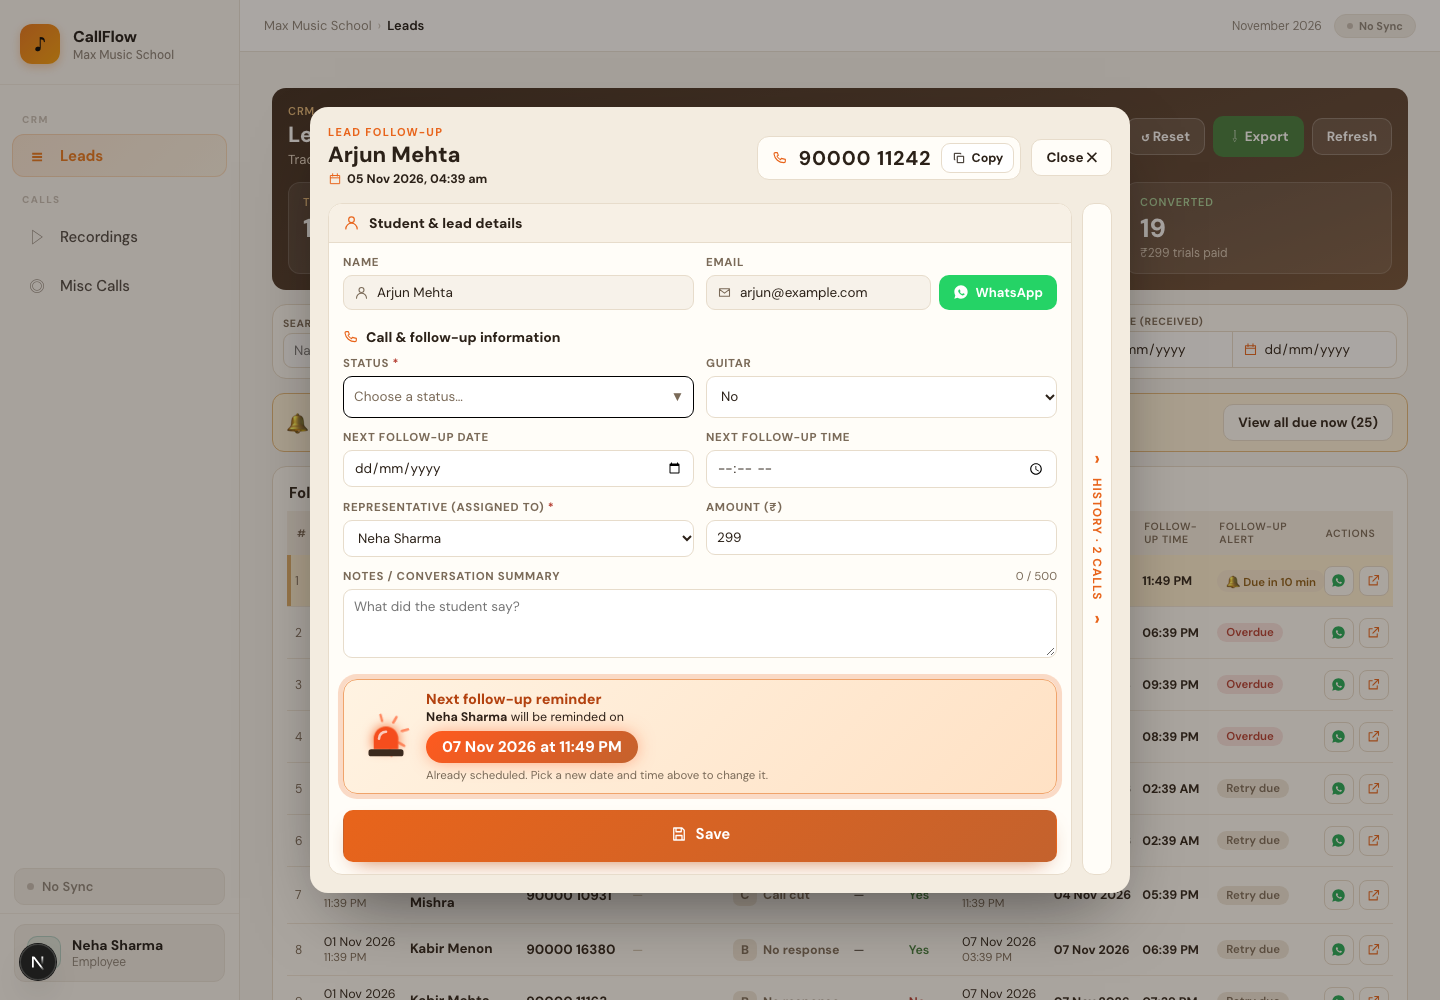
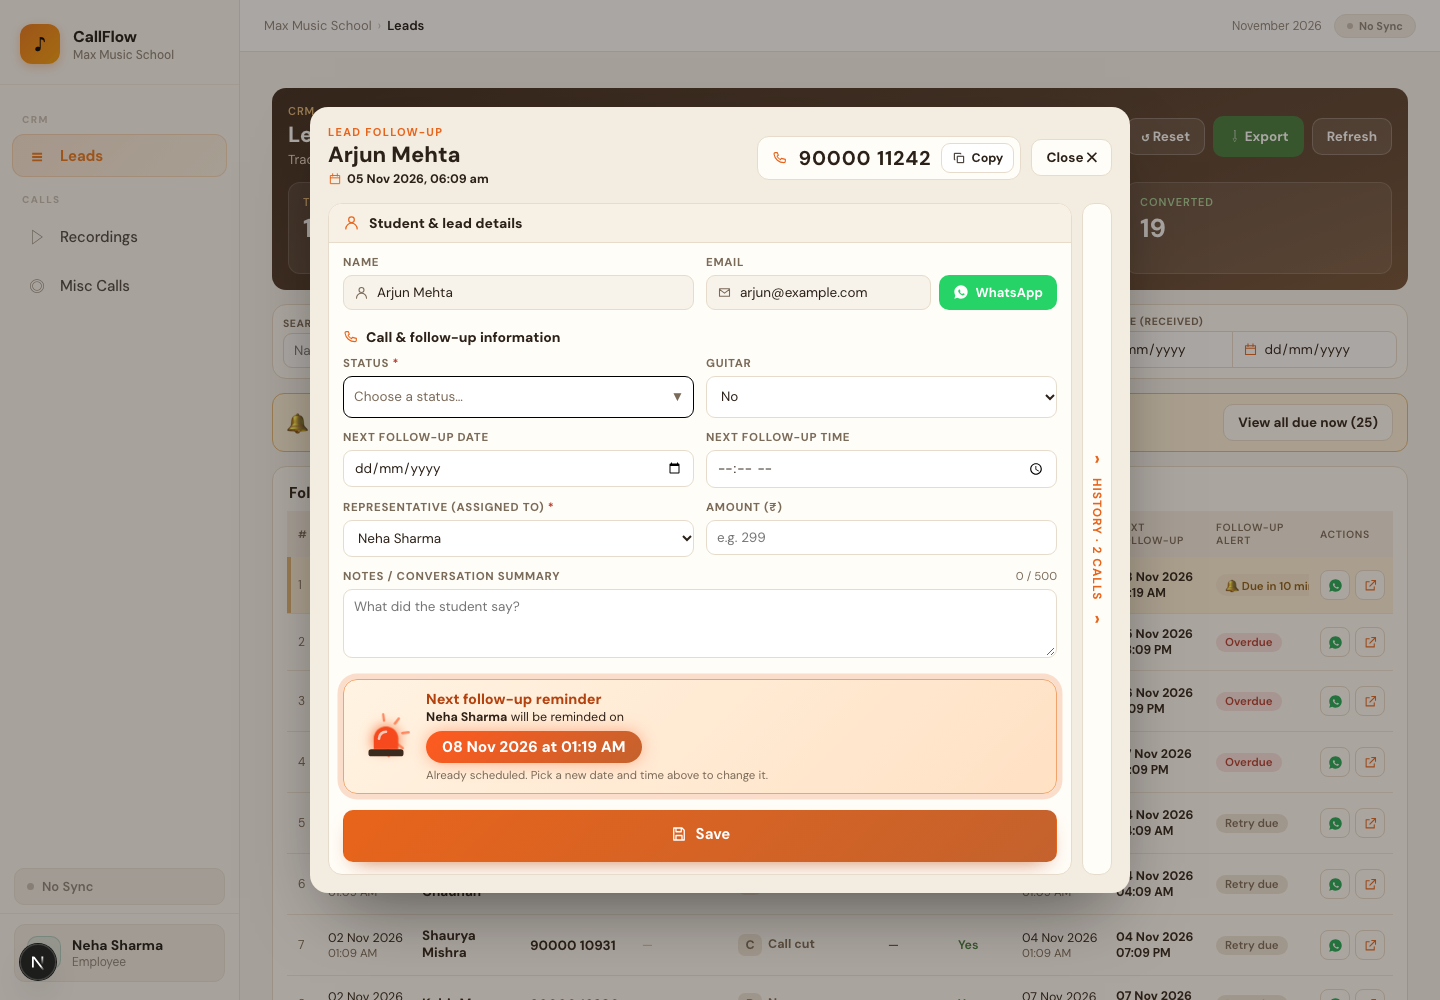
CRM Leads table: more breathing room
Pixel column widths that fit a 1440 px screen with ~22 px between columns; Status wide
enough for 'Not interested' on one line; Amount and Guitar given real widths. Follow-up
date and time merged into 'Next follow-up' (date over time, like Received). 'Assigned to'
header. Narrower screens scroll sideways with Actions pinned on the right.

diff --git a/apps/web/components/crm/LeadTable.tsx b/apps/web/components/crm/LeadTable.tsx
@@ -14,6 +14,16 @@ const IST = "Asia/Kolkata";
 const day = (d: string) => new Date(d).toLocaleDateString("en-GB", { timeZone: IST, day: "2-digit", month: "short", year: "numeric" });
 const actBtn: CSSProperties = { width: 30, height: 30, borderRadius: 8, border: `1px solid ${R.line}`, background: R.card, color: R.ink,
   display: "inline-flex", alignItems: "center", justifyContent: "center", cursor: "pointer", padding: 0, textDecoration: "none" };
+// #, Received, Name, Contact, Assigned to (representative), Status, Amount, Guitar, Last contacted, Next follow-up, Follow-up alert, Actions
+// (sums to the table's width on a 1440 px screen; wider screens share out the extra)
+const COL_PX = [30, 94, 108, 112, 96, 150, 70, 64, 94, 100, 104, 84];
+// Actions stays visible while the table scrolls sideways; its cell needs the row's own background
+const STICKY_CSS = `
+  .crm-sticky{position:sticky;right:0;z-index:1;box-shadow:-8px 0 10px -8px rgba(43,33,24,.18)}
+  th.crm-sticky{background:${R.soft}}
+  .crm-row .crm-sticky{background:${R.card}}
+  .crm-row:hover .crm-sticky{background:${R.soft}}
+  .crm-due .crm-sticky{background:#fff4dc}`;
 const NAME_CLAMP: CSSProperties = { display: "-webkit-box", WebkitLineClamp: 2, WebkitBoxOrient: "vertical", overflow: "hidden", overflowWrap: "anywhere", wordBreak: "break-word" };
 const time = (d: string) => new Date(d).toLocaleTimeString("en-US", { timeZone: IST, hour: "2-digit", minute: "2-digit", hour12: true });
 
@@ -36,7 +46,7 @@ export default function LeadTable({ rows, onOpen, now, meId, sort, onSort, start
     const on = sort && key && sort.sort === key;
     const click = key && onSort ? () => onSort({ sort: key, dir: on && sort!.dir === "desc" ? "asc" : "desc" }) : undefined;
     return (
-      <th key={label} style={{ ...thStyle, whiteSpace: "normal", ...style, cursor: click ? "pointer" : "default" }} onClick={click}
+      <th key={label} className={label === "Actions" ? "crm-sticky" : undefined} style={{ ...thStyle, whiteSpace: "normal", padding: "10px 11px", ...style, cursor: click ? "pointer" : "default" }} onClick={click}
         aria-sort={on ? (sort!.dir === "asc" ? "ascending" : "descending") : undefined}>
         {label}{on ? (sort!.dir === "asc" ? " ↑" : " ↓") : ""}
       </th>
@@ -44,16 +54,17 @@ export default function LeadTable({ rows, onOpen, now, meId, sort, onSort, start
   };
   return (
     <div style={{ overflowX: "auto" }}>
-      <table style={{ width: "100%", borderCollapse: "collapse", fontSize: 13.5, tableLayout: "fixed", minWidth: 1100 }}>
-        {/* Fixed widths so every section lines up */}
-        <colgroup>{[2.6, 7.8, 10.5, 9.6, 9.1, 10.9, 5, 4.8, 7.8, 8, 6.8, 9.1, 8].map((w, i) => <col key={i} style={{ width: `${w}%` }} />)}</colgroup>
+      <style>{STICKY_CSS}</style>
+      <table style={{ width: "100%", borderCollapse: "collapse", fontSize: 13.5, tableLayout: "fixed", minWidth: COL_PX.reduce((a, b) => a + b, 0) }}>
+        {/* Fixed widths so every section lines up; narrower screens scroll sideways with Actions pinned */}
+        <colgroup>{COL_PX.map((w, i) => <col key={i} style={{ width: w }} />)}</colgroup>
         <thead><tr>
-          {head("#")}{head("Received", "created_at")}{head("Name", "name")}{head("Contact")}{head("Representative")}{head("Status", "status")}
-          {head("Amount")}{head("Guitar")}{head("Last contacted", "last_contacted_at")}{head("Follow-up date", "next_followup_at")}{head("Follow-up time")}{head("Follow-up alert")}{head("Actions")}
+          {head("#")}{head("Received", "created_at")}{head("Name", "name")}{head("Contact")}{head("Assigned to")}{head("Status", "status")}
+          {head("Amount")}{head("Guitar")}{head("Last contacted", "last_contacted_at")}{head("Next follow-up", "next_followup_at")}{head("Follow-up alert")}{head("Actions")}
         </tr></thead>
         <tbody>
           {rows.map((l, i) => {
-            const td = (extra?: CSSProperties): CSSProperties => ({ ...tdStyle, padding: "10px 8px", ...extra });
+            const td = (extra?: CSSProperties): CSSProperties => ({ ...tdStyle, padding: "12px 11px", ...extra });
             const alert = followUpAlert(l, now);
             const f = l.next_followup_at && ["retry", "callback"].includes(l.status) ? l.next_followup_at : null;
             return (
@@ -76,10 +87,9 @@ export default function LeadTable({ rows, onOpen, now, meId, sort, onSort, start
                 <td style={td({ fontSize: 12.5, fontWeight: 600, color: l.has_guitar ? R.good : l.has_guitar === false ? R.bad : "#c2b39c" })}>
                   {l.has_guitar == null ? "—" : l.has_guitar ? "Yes" : "No"}</td>
                 <td style={td({ fontSize: 12.5, whiteSpace: "nowrap" })}>{l.last_contacted_at ? <>{day(l.last_contacted_at)}<div style={{ color: R.mute, fontSize: 11.5 }}>{time(l.last_contacted_at)}</div></> : "—"}</td>
-                <td style={td({ fontSize: 12.5, fontWeight: f ? 700 : 400, whiteSpace: "nowrap" })}>{f ? day(f) : "—"}</td>
-                <td style={td({ fontSize: 12.5, fontWeight: f ? 700 : 400, whiteSpace: "nowrap" })}>{f ? time(f) : "—"}</td>
+                <td style={td({ fontSize: 12.5, whiteSpace: "nowrap" })}>{f ? <><b>{day(f)}</b><div style={{ fontWeight: 700, fontSize: 12 }}>{time(f)}</div></> : "—"}</td>
                 <td style={td()}>{alert ? <Tag tone={alert.tone}>{alert.tone === "gold" ? "🔔 " : ""}{alert.text}</Tag> : <span style={{ color: "#c2b39c" }}>—</span>}</td>
-                <td style={td({ whiteSpace: "nowrap" })} onClick={(e) => e.stopPropagation()}>
+                <td className="crm-sticky" style={td({ whiteSpace: "nowrap" })} onClick={(e) => e.stopPropagation()}>
                   <span style={{ display: "inline-flex", gap: 5 }}>
                     <a className="crm-btn" style={{ ...actBtn, color: "#1fa855" }} href={`https://wa.me/91${l.phone10}`} target="_blank" rel="noopener noreferrer"
                       title="Chat on WhatsApp" aria-label={`WhatsApp ${l.name}`}><WhatsAppIcon size={15} /></a>
